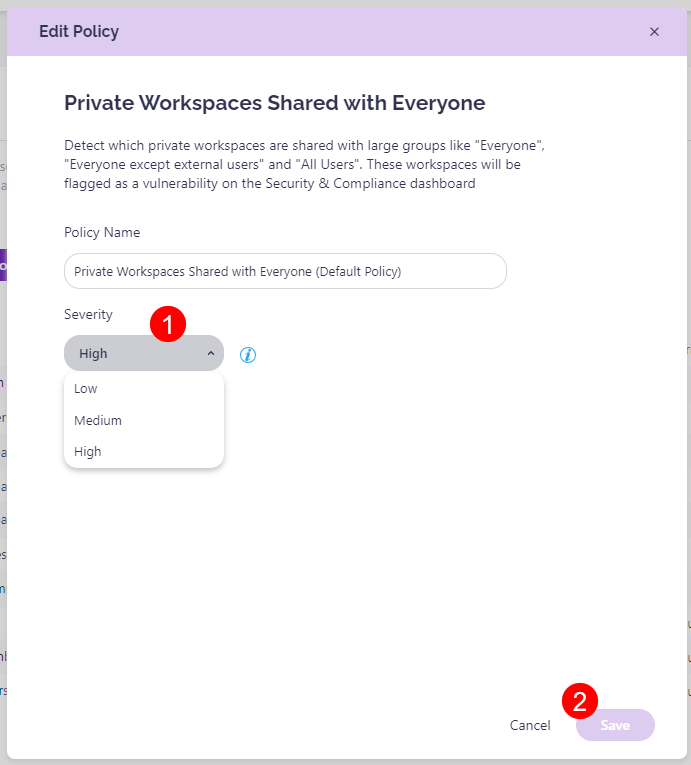
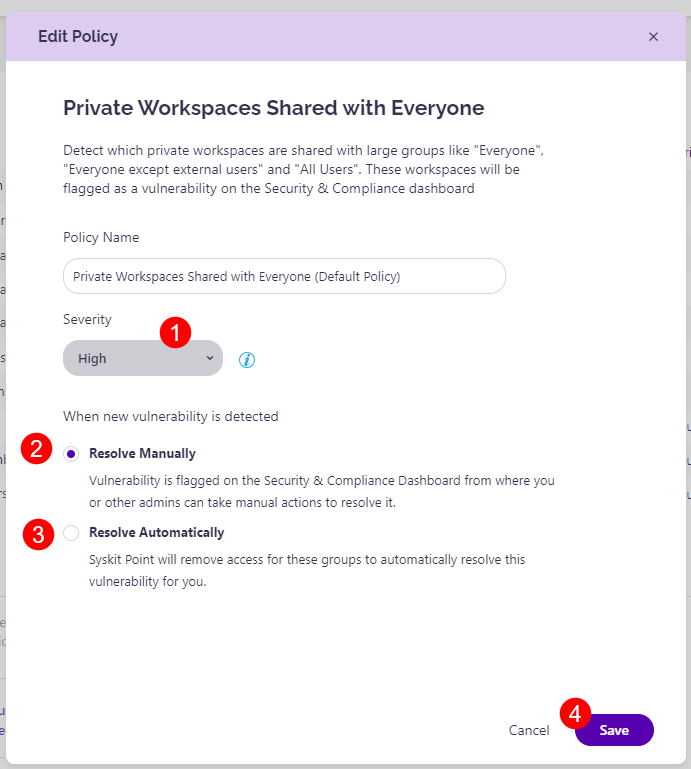
private workspaces automation

diff --git a/governance-and-automation/security-compliance-checks/security-compliance-checks.md b/governance-and-automation/security-compliance-checks/security-compliance-checks.md
@@ -10,24 +10,24 @@ Collecting all the important info about the security and compliance state of you
 
 {% hint style="information" %}
 **Please note:** The Security and Compliance checks **email is sent to Syskit Point admins weekly**, on Wednesdays. 
-  * If there are no vulnerabilities in your environment, there is no email sent. 
-  * If Wednesday is less than 2 days from your installation date, the email will be sent next week. 
+  * If there are no vulnerabilities in your environment, there is no email sent. 
+  * If Wednesday is less than 2 days from your installation date, the email will be sent next week. 
 
 {% endhint %}
 
 
 When you acquire SysKit Point, a **[default rule](../../governance-and-automation/automated-workflows/policy-automation.md#default-rule) will automatically apply default governance policies to your workspaces**. 
-  * **The default policies are configured to detect vulnerabilities without sending any emails or creating any tasks**.
-  * **All vulnerabilities detected by Syskit Point are displayed on the Security & Compliance Dashboard**
-  * **Both the vulnerabilities detected by default policies, as well as the policies created by Syskit Point admins, are displayed on the Security & Compliance Dashboard**
+  * **The default policies are configured to detect vulnerabilities without sending any emails or creating any tasks**.
+  * **All vulnerabilities detected by Syskit Point are displayed on the Security & Compliance Dashboard**
+  * **Both the vulnerabilities detected by default policies, as well as the policies created by Syskit Point admins, are displayed on the Security & Compliance Dashboard**
 
 ## Security & Compliance Dashboard
 On the home Dashboard, you can click and drill down to a specific report to investigate further by **clicking the View All button**.
 
 On your home screen, you can see the number of:
-  * **High-risk** vulnerabilities
-  * **Medium-risk** vulnerabilities
-  * **Low-risk** vulnerabilities
+  * **High-risk** vulnerabilities
+  * **Medium-risk** vulnerabilities
+  * **Low-risk** vulnerabilities
 
 You are also able to apply policies manually or [set up policy rules](../../governance-and-automation/automated-workflows/policy-automation.md) if you haven't already by clicking the **Manage Policies button**. 
 
@@ -37,24 +37,25 @@ You are also able to apply policies manually or [set up policy rules](../../gove
 
 After clicking View All, the Security and Compliance checks dashboard will open, showing the following: 
 
-
 * **Orphaned Workspaces (1)** - shows the number of workspaces without an active owner. It helps you manage your Microsoft 365 workspace's health and helps **ensure there are no workspaces without owners** in your tenant. 
 
 * **Inactive Guest Users (2)** - shows the number of guest users that have been inactive for a certain amount of time and helps you optimize your environment and keep it safe.
 
-* **Tenant Storage Limit (3)** - shows whether you reached the tenant storage limit based on the percentage set for the policy.
+* **Blocked Users with Assigned Licenses (3)** - shows the number of users with one or more active licenses assigned that have been blocked, which helps you **detect and remove licenses** that are not being utilized.
 
-* **Blocked Users with Assigned Licenses (4)** - shows the number of users with one or more active licenses assigned that have been blocked, which helps you **detect and remove licenses** that are not being utilized.
+* **Private Workspaces Shared with Everyone (4)** - shows the number of private workspaces shared with Everyone, Everyone except external users, or All Users security groups, which helps you **detect and remove access** on workspaces that pose a potential security risk.
 
 * **Workspaces with Not Enough Owners (5)** – shows the number of workspaces that don't have enough owners. You will be able to investigate further and assign additional owners if needed. Keep an eye on workspaces with only 1 owner because **if that one owner leaves, a workspace is left without an owner**. 
 
-* **Orphaned Users (6)** - shows the number of orphaned users and takes you to the Orphaned Users report, which helps **detect and remove blocked or deleted users** from your Microsoft 365 workspaces. 
+* **Workspaces with Too Many Members (6)** – shows the number of workspaces with too many members. If there are **too many members, it may be more difficult to control access and permissions, leading to security concerns**. This helps you keep track of and manage groups with more members than the limit you set. 
 
-* **Workspaces with Too Many Members (7)** – shows the number of workspaces with too many members. If there are **too many members, it may be more difficult to control access and permissions, which can lead to security concerns**. This helps you keep track of and manage groups with more members than the limit you set. 
+* **Orphaned Users (7)** - shows the number of orphaned users and takes you to the Orphaned Users report, which helps **detect and remove blocked or deleted users** from your Microsoft 365 workspaces. 
 
-* **Workspaces with Too Many Owners (8)** – shows the number of workspaces with too many owners. If there are **too many owners, no one feels accountable for access and content management**. This helps you keep track of and remove extra members. 
+* **Workspaces with Shadow Users (8)** – shows the number of workspaces with **shadow users** - users who have access to specific content on the SharePoint site but are not members of the Microsoft 365 Group or Team associated with it. Access given to shadow users can be a security concern if you don't keep up with them regularly. This helps you keep track of and remove access given to shadow users.
 
-* **Workspaces with Shadow Users (9)** – shows the number of workspaces with **shadow users** - users that have access to specific content on the SharePoint site but are not members of the Microsoft 365 Group or Team associated with it. Access given to shadow users can be a security concern if you don't keep up with them regularly. This helps you keep track of and remove access given to shadow users. 
+* **Workspaces with Too Many Owners (9)** – shows the number of workspaces with too many owners. If there are **too many owners, no one feels accountable for access and content management**. This helps you keep track of and remove extra members.  
+
+* **Tenant Storage Limit (10)** - shows whether you reached the tenant storage limit based on the percentage set for the policy.
 
 ![Security & Compliance Checks](../../.gitbook/assets/security-compliance-checks-dashboard.png)
 
@@ -63,22 +64,22 @@ After clicking View All, the Security and Compliance checks dashboard will open,
 ## Automated Governance
 
 To keep all vulnerabilities **under control proactively and prevent possible issues**, explore and [**[set up governance policies](../../governance-and-automation/automated-workflows/set-up-policies.md) and [policy rules](../../governance-and-automation/automated-workflows/policy-automation.md)**] in Syskit Point.
- 
+ 
 ## Navigate Security and Compliance Checks
 
 Take a look at the following articles to learn how to settle your security and compliance checks: 
 
- * [**Inactive Guest Users**](../security-compliance-checks/inactive-guest-users.md)
- * [**Blocked users with assigned licenses**](../security-compliance-checks/blocked-users-assigned-license.md)
- * [**Orphaned workspaces** ](../security-compliance-checks/orphaned-workspaces.md)
- * [**Workspaces with not enough owners**](../security-compliance-checks/workspaces-not-enough-owners.md)
- * [**Orphaned users**](../security-compliance-checks/orphaned-users.md)
- * [**Workspaces with too many owners**](../security-compliance-checks/inactive-guest-users.md)
- * [**Tenant Storage Limit**](../security-compliance-checks/tenant-storage.md)
- * [**Workspaces with too many members**](../security-compliance-checks/workspaces-with-too-many-members.md)
- * [**Workspaces with shadow users**](../security-compliance-checks/workspaces-with-shadow-users.md)
+ * [**Inactive Guest Users**](../security-compliance-checks/inactive-guest-users.md)
+ * [**Blocked users with assigned licenses**](../security-compliance-checks/blocked-users-assigned-license.md)
+ * [**Orphaned workspaces** ](../security-compliance-checks/orphaned-workspaces.md)
+ * [**Workspaces with not enough owners**](../security-compliance-checks/workspaces-not-enough-owners.md)
+ * [**Orphaned users**](../security-compliance-checks/orphaned-users.md)
+ * [**Workspaces with too many owners**](../security-compliance-checks/inactive-guest-users.md)
+ * [**Tenant Storage Limit**](../security-compliance-checks/tenant-storage.md)
+ * [**Workspaces with too many members**](../security-compliance-checks/workspaces-with-too-many-members.md)
+ * [**Workspaces with shadow users**](../security-compliance-checks/workspaces-with-shadow-users.md)
 
 {% hint style="warning" %}
-**Please note!**  
+**Please note!**  
 In case you have any security and compliance checks that need to be resolved, an **email is automatically sent each Wednesday** to Syskit Point admins. Click the **Resolve button** within the email to access the reports in Syskit Point directly and perform the needed actions.
 {% endhint %}

diff --git a/governance-and-automation/security-compliance-checks/private-workspaces-shared-with-everyone.md b/governance-and-automation/security-compliance-checks/private-workspaces-shared-with-everyone.md
@@ -8,24 +8,28 @@ Syskit Point detects **private workspaces shared with Everyone, Everyone except 
 
 Oversharing workspaces might lead to **security risks, administration difficulty, and a challenge managing access control**.
 
-The Private Workspaces Shared with Everyone is **a tenant-wide policy, and it cannot have task delegation enabled**. That means no tasks are created to resolve this policy, and no emails are sent to collaborators.
+The Private Workspaces Shared with Everyone is **a tenant-wide policy and can be automated without task delegation**. That means no tasks are created to resolve this policy, and no emails are sent to collaborators. 
 
-The private workspaces shared with everyone **are still detected** as a part of the Security and Compliance checks feature. **This means that Syskit Point detects a vulnerability on a workspace** based on the applied policy, but it does not create tasks or send any emails to collaborators. 
+By default, the Private Workspaces Shared with Everyone policy is set to Resolve Manually, which means you can manually resolve the policy vulnerability on the Security & Compliance Dashboard when it is detected. 
+
+If the policy is set to **Resolve Automatically**, Syskit Point **automatically resolves the vulnerability** by removing access via Everyone / Everyone except external users / All users. 
+
+The private workspaces shared with everyone **are still detected** as a part of the Security and Compliance checks feature. **This means that Syskit Point detects a vulnerability in a workspace** based on the applied policy, but it does not create tasks or send any emails to collaborators. 
 
 The purpose of this is to assist Syskit Point admins by
 bringing awareness of potential issues in their Microsoft 365 environment. 
 
-The policy is applied to **private Microsoft 365 Groups, Microsoft Teams, and Sites** by default. 
+By default, the policy is applied to **private Microsoft 365 Groups, Microsoft Teams, and Sites**. 
 
 A **vulnerability is detected** when:
 
 * **Access is given to dynamic security groups - Everyone, Everyone except external users, and All Users** - that contain a large number of users. 
 
-* **A public workspace is changed to private**, and a large number of users still have access through dynamic security groups - Everyone / Everyone except external users / All Users.
+* **A public workspace is changed to private**, and a large number of users still have access through dynamic security groups: Everyone / Everyone except external users / All Users.
 
 On the Security & Compliance dashboard, click the **Private workspaces shared with everyone** button to see the report.
 
-The Private Workspaces Shared with Everyone screen opens, showing a list of all **private workspaces with access given to a large number of users** through Everyone, Everyone except external users, or All Users security groups.
+The Private Workspaces Shared with Everyone screen opens, showing a list of all **private workspaces with access given to a large number of users** through the Everyone, Everyone except external users, or All Users security groups.
 
 The report provides information on:
 * **Workspace (1)** name
@@ -37,7 +41,7 @@ The report provides information on:
 
 Additionally, you can complete the following actions for the policy vulnerability:
 * **Accept Risk (7)** - clicking this closes the policy vulnerability without making any changes to the current state of the workspace 
-  * You can select a time frame for how long the vulnerability should be ignored: 30 days, 90 days, 6 months, or 1 year. 
+  * You can select a time frame for how long the vulnerability should be ignored: 30 days, 90 days, 6 months, or 1 year. 
 * **Remove Access (8)** - clicking this removes access to the selected workspace(s) for Everyone, Everyone except external users, and All Users security group
 
 ![Private Workspaces Shared with Everyone](../../.gitbook/assets/security-compliance-checks-private-workspaces-everyone.png)

diff --git a/governance-and-automation/automated-workflows/private-workspaces-shared-with-everyone-admin.md b/governance-and-automation/automated-workflows/private-workspaces-shared-with-everyone-admin.md
@@ -8,23 +8,25 @@ Syskit Point provides a predefined **Private Workspaces Shared with Everyone pol
 
 A vulnerability is detected if Syskit Point discovers a **private** Microsoft 365 Group, Microsoft Teams, or Site with access given to one of the following security groups - **Everyone**, **Everyone except external users**, or **All Users**.
 
-
 Oversharing workspaces might lead to **security risks, administration difficulty, and a challenge managing access control**.
 
 To edit the policy, navigate to the Policies settings screen and **click the Edit Policy (1)** icon.
 
 ![Private Workspaces Shared with Everyone - Edit Policy](../../.gitbook/assets/private-workspaces-shared-with-everyone-edit-policy.png)
 
-The **Edit Policy** dialog opens where you can select the **Severity level (1)**.
+The **Edit Policy** dialog opens where you can select:
+* The **Severity level (1)**.
   * The severity level set by default for this policy is **High**
-  
-You can select between three levels of severity: 
+  * You can select between three levels of severity: 
+    * High
+    * Medium
+    * Low
+* How to **resolve a vulnerability when it's detected.** The options are:
+  * **Resolve Manually (2)**: Selecting this detects the vulnerability and shows it on the Security and Compliance Dashboard, where manual actions can be taken to resolve it. 
+  * **Resolve Automatically (3)**: Selecting this means that Syskit Point automatically resolves the vulnerability by removing access via Everyone / Everyone except external users / All users. 
+  * By **default**, the policy is set as **Resolve Manually**. 
 
-  * High
-  * Medium
-  * Low
-
-Once you've selected the one that best suits your needs for this policy, **click the Save button (2)** to store your preference. 
+Once you've selected the one that best suits your needs for this policy, **click the Save button (4)** to store your preference. 
 
 
 ![Private Workspaces Shared with Everyone - Severity](../../.gitbook/assets/private-workspaces-shared-with-everyone-severity.png)
